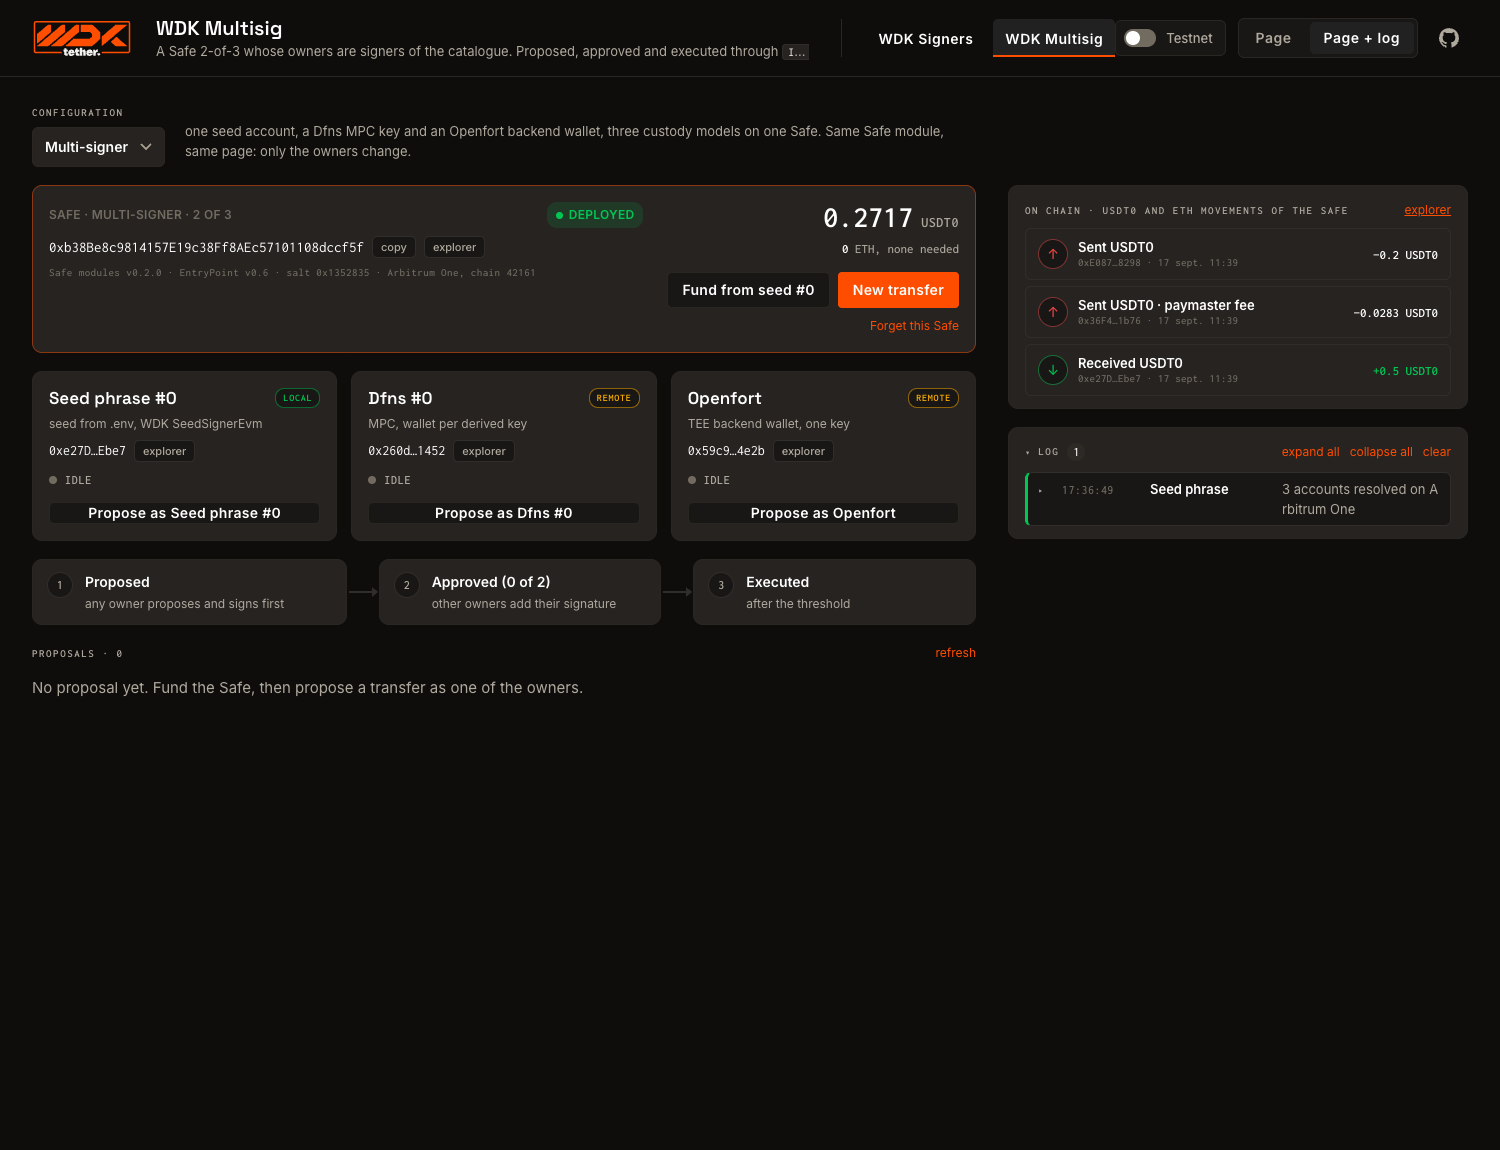
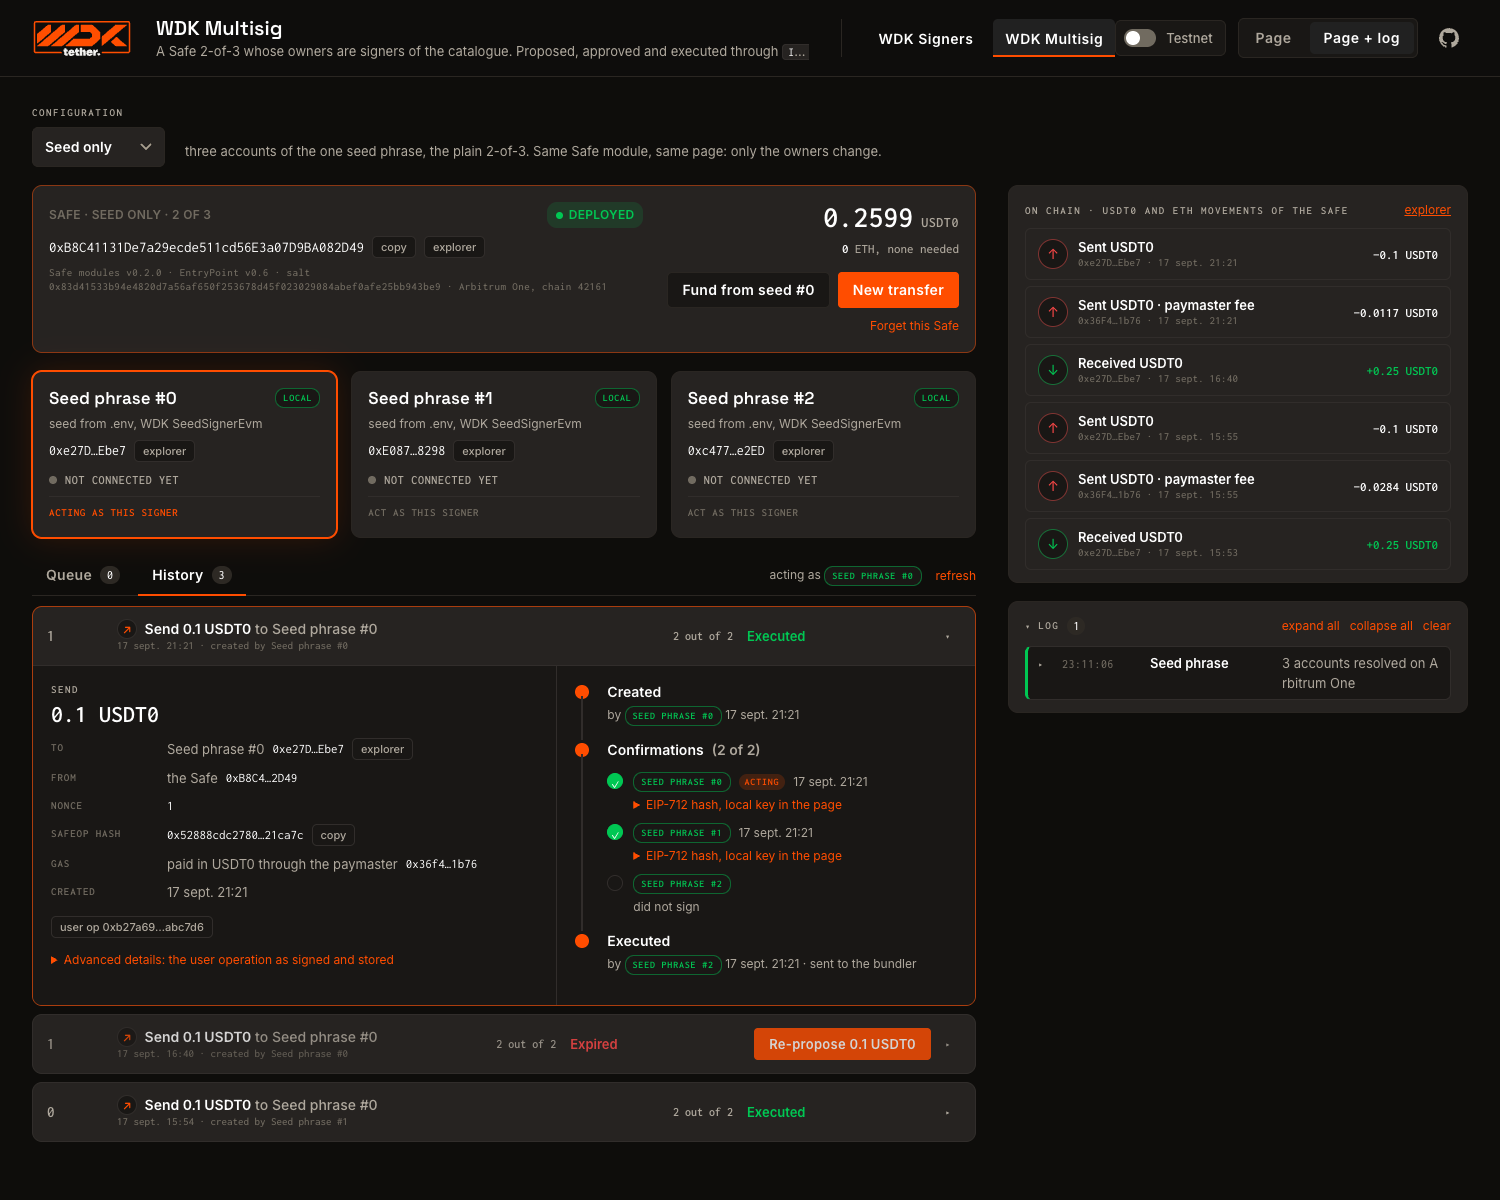
README and screenshot follow the Safe-style Multisig page

diff --git a/README.md b/README.md
@@ -64,17 +64,21 @@ again; the page shows the countdown, marks such proposals expired and offers to 
 multisig that gathers signatures over days needs the Safe to pay its own gas (`useNativeCoins`) or a
 paymaster that does not sign with a deadline.
 
-The page shows the Safe (address, deployed or not, USDT0 and ETH balances), the three owners side by
-side with their custody badge, and the path of the selected proposal: **proposed** by one owner,
-**approved** until the threshold, **executed** by any. The action sits on the owner's card, "Propose
-as Dfns #0", "Approve as Openfort", so each signature is visibly one signer's. Each card that signed
-opens on what its provider received (EIP-712 typed data for Dfns, a 32-byte digest for Openfort, the
-local key for the seed), the SafeOp hash and the signature. The Safe pays its gas in USDT0 through
-Candide's token paymaster (EntryPoint v0.6): no ETH anywhere, and the deployment rides in the first
-executed operation. Arbitrum One only. A transfer is USDT0 only, to one of the owners or to any
-address; the sheet's "initiator" is the owner who signs first, the Safe itself is the sender.
+The page is laid out the way Safe{Wallet} tells a multisig transaction. The Safe sits on top
+(address, deployed or not, USDT0 and ETH balances). The three signers come next, each with its custody
+badge: clicking one makes the page **act as** it, the equivalent of connecting a wallet. Transactions
+are a **Queue** and a **History**; a row carries its nonce, what it sends, "1 out of 2", a status
+(Needs confirmation, Awaiting execution, Executed, Expired) and one button for the signer acted as:
+"Confirm as Dfns #0", "Execute as Openfort", or a disabled "Signed". An open row shows what the
+transaction does on the left (recipient, nonce, SafeOp hash, paymaster, sponsorship countdown, raw user
+operation) and who signed on the right, every owner listed, with what its provider received (EIP-712
+typed data for Dfns, a 32-byte digest for Openfort, the local key for the seed). The Safe's on-chain
+movements sit beside, above the log. The Safe pays its gas in USDT0 through Candide's token paymaster
+(EntryPoint v0.6): no ETH anywhere, and the deployment rides in the first executed operation. Arbitrum
+One only. A transfer is USDT0 only, to one of the owners or to any address; the Safe is the sender, the
+initiator is the owner who signs first.
 
-![The Multisig page: the Multi-signer Safe, its three owners, the flow line, the on-chain movements beside](docs/multisig.png)
+![The Multisig page: the Seed-only Safe, its signers, the history with an open transaction, the on-chain movements beside](docs/multisig.png)
 
 Behind it: `src/lib/safe/owner-account.js` puts any `WalletAccountEvm`, hence any `ISigner`, in the
 module's owner seat (the module's constructor only takes a seed, see Findings);
@@ -171,7 +175,8 @@ npm run test:live     # every provider configured in .env, on every network it s
 npm run test:browser  # the phone in Chrome (Playwright, `chrome` channel) with `npm run dev` up:
                       # picker, accounts, balances, history, sign message, sign tx, the send sheet
                       # cancelled, the switch to Arbitrum and back; DEMO_SIGNER=Openfort picks another signer;
-                      # and the Multisig page: tab, configurations, owner cards, flow, setup sheet cancelled
+                      # and the Multisig page: tab, configurations, acting as a signer, queue and history,
+                      # an open transaction, setup sheet cancelled
 ```
 
 Ledger and MetaMask need a device or an extension in a headed browser and stay manual.
